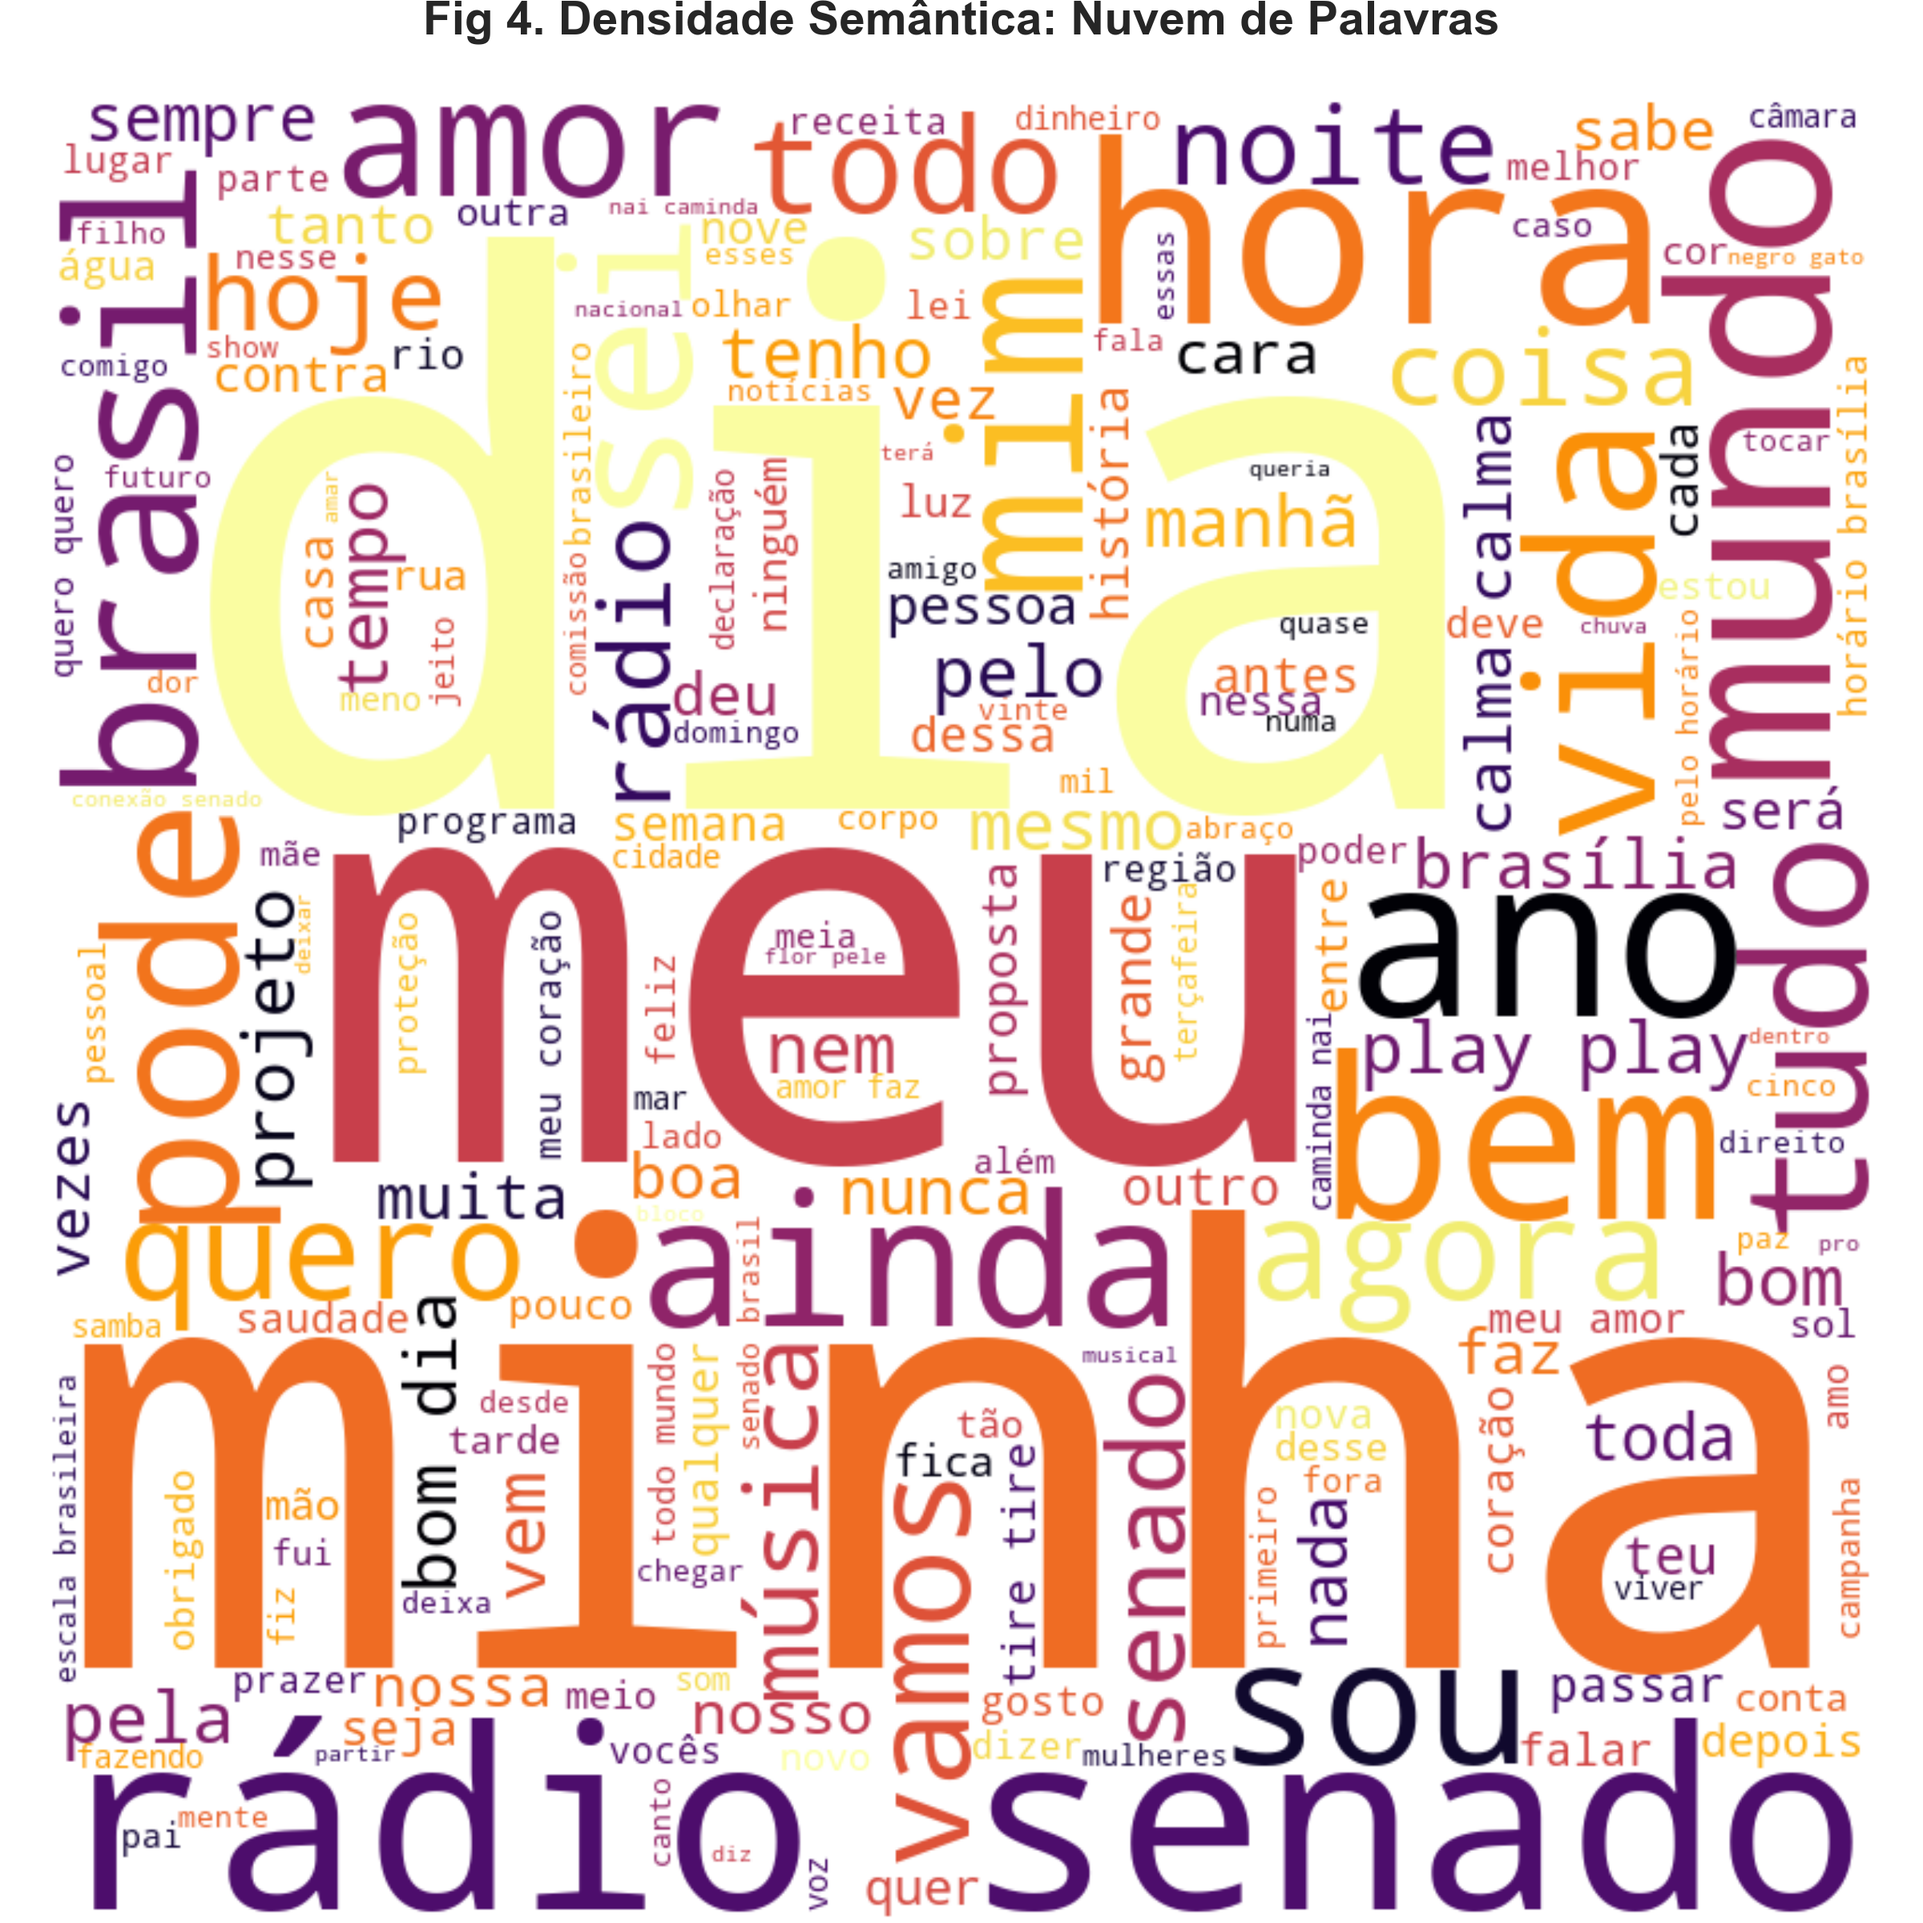
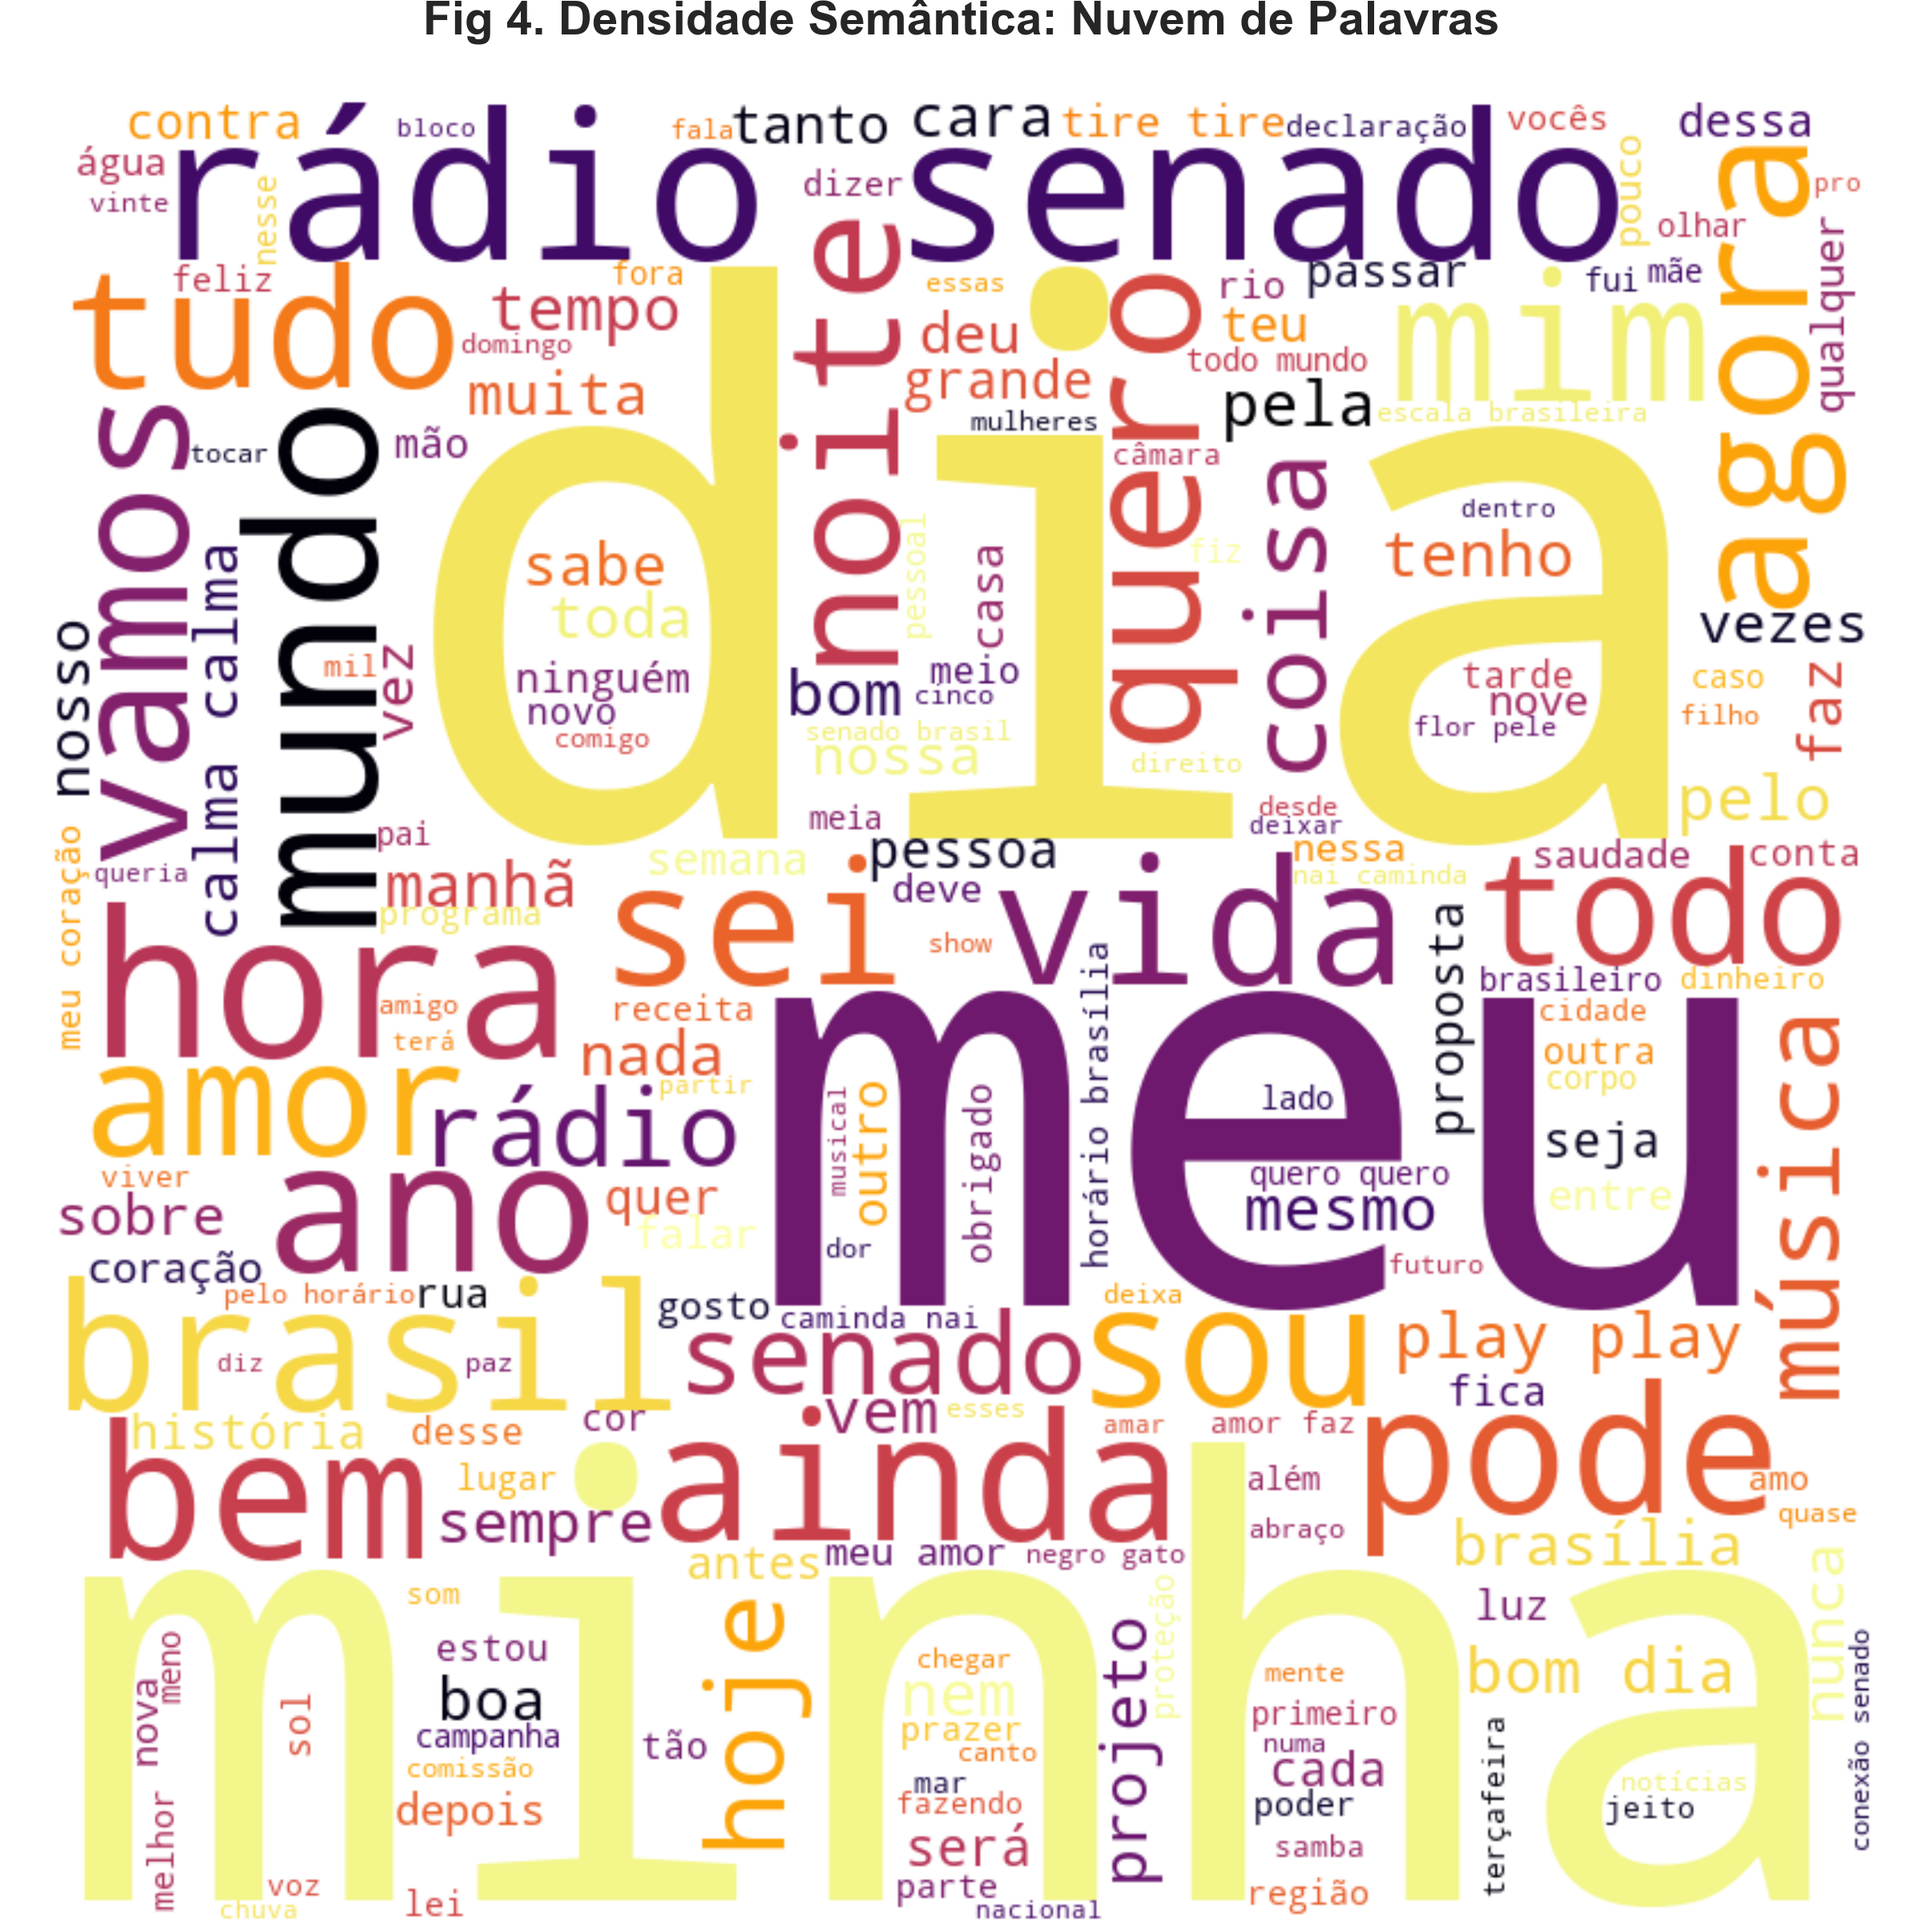
update do readme

diff --git a/README.md b/README.md
@@ -101,6 +101,37 @@ projeto/
 
 ---
 
+## 🧪 Sessão de Validação e Caso de Estudo (`sessao_20260525_2212`)
+
+Para fins de **validação científica da pesquisa** e **demonstração prática da proposta da ferramenta**, o repositório inclui uma sessão de dados reais pré-capturada localizada em:
+`dados/projetos/sessao_20260525_2212/`
+
+Esta sessão serve como um banco de dados de referência (dataset de teste) que permite validar todas as etapas lógicas do pipeline (transcrição Whisper offline, higienização de dados, análise de NLP e geração de dashboards) sem a necessidade obrigatória de possuir o hardware RTL-SDR conectado no momento do teste.
+
+### 📋 Estrutura da Sessão de Validação
+
+A pasta está organizada da seguinte forma:
+
+* **🎙 Áudios Originais (`/audios`):** Chunks de áudio no formato `.wav` capturados em tempo real diretamente do espectro de radiofrequência FM. Eles contêm transmissões reais de rádio (programação musical e jornalística da Rádio Senado) repletas de ruído eletromagnético e desvanecimento de sinal, ideais para testar a robustez do motor Whisper.
+* **📄 Transcrições Consolidadas (`transcricoes_sessao_20260525_2212.csv`):** O histórico completo das conversões de áudio em texto geradas de forma 100% offline local. Cada registro mapeia com precisão o timestamp exato, a frequência sintonizada (100.9 MHz), o arquivo de áudio correspondente e a transcrição obtida após os filtros anti-alucinação.
+* **📊 Estatísticas e NLP (`/estatisticas`):** O dashboard analítico gerado sob demanda a partir das transcrições, contendo:
+  * `fig1_termos.png` / `fig2_expressoes.png`: Análise de frequência de unigramas e bigramas.
+  * `fig3_linha_do_tempo.png`: Ocorrência temporal das capturas ao longo da sessão.
+  * `fig4_nuvem_palavras.png`: Nuvem de palavras que evidencia a densidade semântica da escuta.
+  * `fig5_ontologia.png`: Distribuição percentual das categorias mapeadas na árvore taxonômica OSINT (Ex: Cultura, Segurança, Sociedade).
+  * `matriz_estatistica.csv`: Tabela consolidada de termos e relevâncias quantitativas.
+
+### ⚙ Como Validar a Proposta com esta Sessão
+
+1. **Validação da Análise Estatística (NLP):**
+   Com o ambiente ativado, você pode abrir a interface gráfica (`python main.py`), carregar a sessão existente `sessao_20260525_2212` e clicar no botão **"Gerar Estatísticas"** para processar em tempo de execução os dados do CSV e recriar os gráficos na pasta de destino de forma instantânea.
+   
+2. **Validação da Re-transcrição Concorrente:**
+   Utilize o painel de re-transcrição para varrer concorrentemente a pasta de áudios `audios/` da sessão, regenerando as transcrições locais e comprovando o funcionamento dinâmico da pool de threads e a estabilidade da inferência do Whisper.
+
+
+---
+
 ## 📖 Documentação Técnica Avançada
 
 Para compreender detalhadamente a arquitetura do projeto, fluxo de dados do Processamento Digital de Sinal (DSP), padrões de projeto aplicados e pontos de extensibilidade, consulte o nosso documento de especificação técnica:
